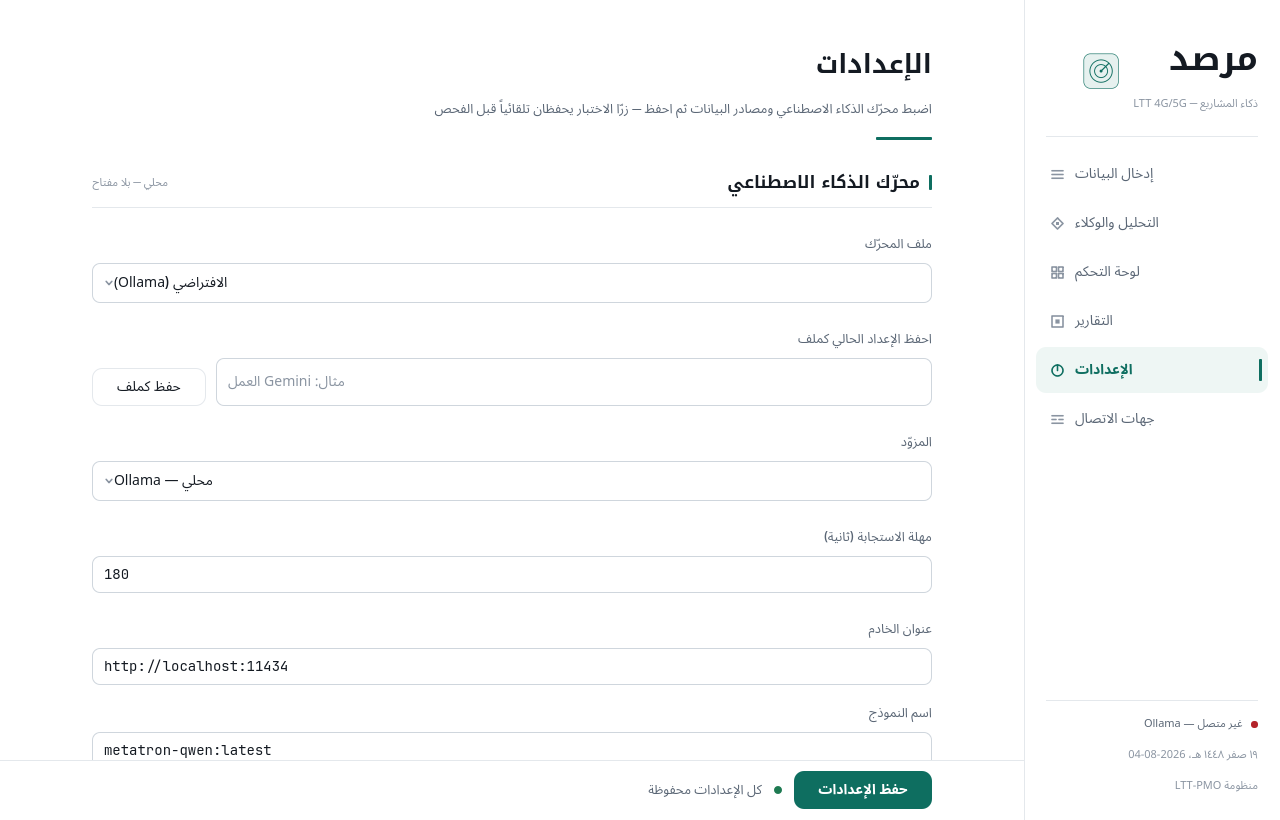
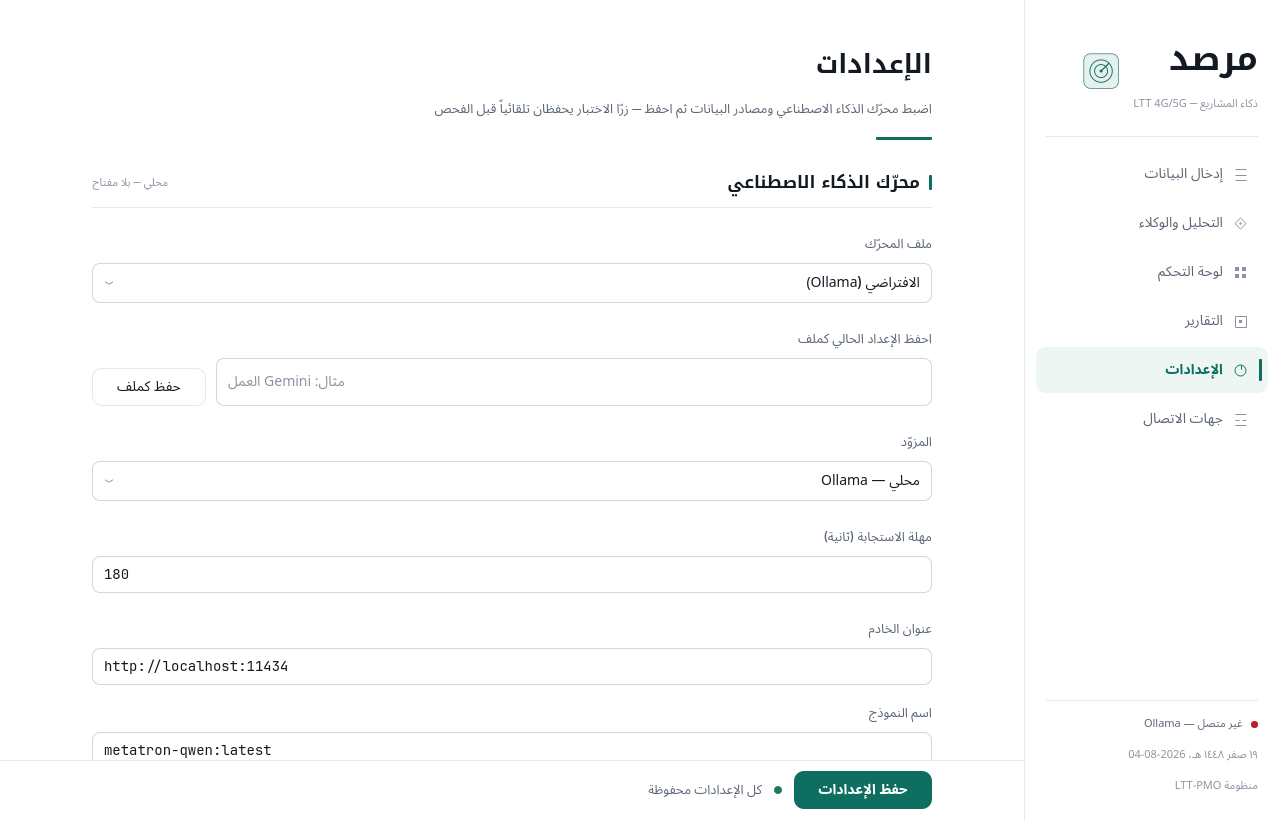
fix(rtl): pin the report metadata line, which the isolate flipped left
Caught by reading the rendered PNG against the owner's original screenshot,
not by reading source — the line had been right-aligned before this branch
and was now left.

Wrapping the sender in U+2068…U+2069 fixed the ordering but broke the
alignment: paragraph-level direction is decided by the first strong character
*outside* any isolate, and once the sender was wrapped there was none left,
so the implicit default stopped seeing the Arabic. Same class as the eleven
sites this branch already pinned, introduced by the fix for a different one.

Explicit AlignRight with mirroring off, and a comment naming the interaction
so the isolate is not later "cleaned up" into the same trap.

Screenshots refreshed: sidebar icons on the leading edge, no sample-data
button, metadata and body both right-aligned, redrawn glyphs.
185 unit + 7 API tests pass.

diff --git a/qml/InputPage.qml b/qml/InputPage.qml
@@ -118,6 +118,13 @@ PageFrame {
                             spacing: 2
                             Text {
                                 Layout.fillWidth: true
+                                // Must be explicit. Wrapping the sender in an
+                                // isolate below hides its first strong character
+                                // from paragraph-level direction detection, so
+                                // the implicit default no longer sees the Arabic
+                                // and flips the whole line left.
+                                LayoutMirroring.enabled: false
+                                horizontalAlignment: Text.AlignRight
                                 text: {
                                     var parts = []
                                     // Isolate each run so it cannot reorder the
